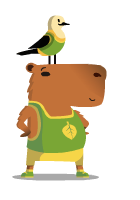
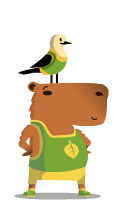
images

Changed region(s): [[0.0857, 0.06, 0.8, 1.0]]

diff --git a/src/components/creator/SceneGrid.tsx b/src/components/creator/SceneGrid.tsx
@@ -6,7 +6,7 @@ import styles from "./grid.module.css"
 export const SceneGrid = () => {
 
     const storageChallenge = LocalStorage.getCreatorChallenge()
-    const challenge: SerializedChallenge =  storageChallenge ? storageChallenge : defaultChallenge('Duba')
+    const challenge: SerializedChallenge = storageChallenge ? storageChallenge : defaultChallenge('Duba')
 
     const maps: SceneMap[] = challenge.scene.maps
     const sceneType: SceneType = challenge.scene.type
@@ -43,7 +43,7 @@ export const SceneCell: React.FC<CellProps> = (props) => {
         {objectsInCell.map(obj =>
             <img
                 data-testid="challenge-cell-image"
-                key={'&'+obj}
+                key={'&' + obj}
                 src={`${imagePath}/${obj}.png`}
                 alt={obj}
                 className={objectStyle(obj)} />

diff --git a/src/components/creator/grid.module.css b/src/components/creator/grid.module.css
@@ -12,13 +12,16 @@
 
 .img-A{ 
     width: 50%;
-    transform: scale(1.6) translateY(3%) translateX(20%);
+    transform: scale(1.6) translateY(3%) translateX(15%);
     z-index: 1;
+    position: relative;
 }
 
 .img-default{
-    width: 40%;
+    width: 50%;
+    transform: translateY(40%);
     z-index: 0;
+    position: relative;
 }
 
 .img-O{
